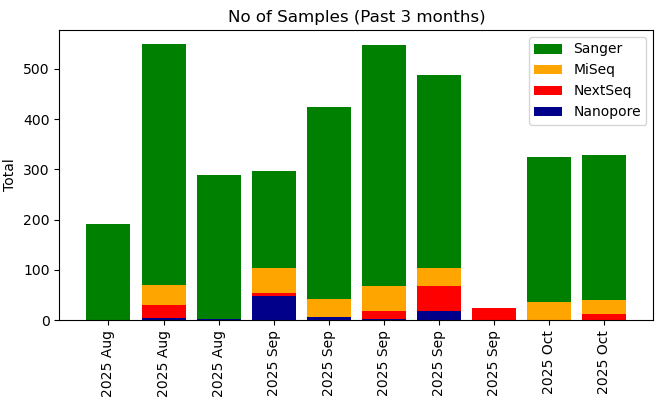
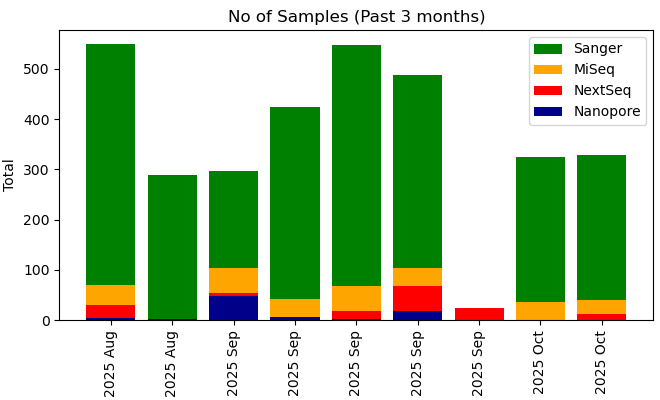
Your commit message here

diff --git a/krona/cgs.html b/krona/cgs.html
@@ -52,8 +52,8 @@ body {
   flex-direction: column;
 }
 </style>
-<H1>Genomics Facility Status: 07:00:12, 08/11/2025</H1>
-<marquee behavior="scroll" scrollamount="20" direction="left" bgcolor="lightgrey">AGAGTTTGATCCTGGCTCAGGATGAACGCTAGCTGCGGGCTTAACACATGCAAGTCGAGGGGCACCACTGTCTTAGCTTGCCAAGTCTGTTTCCGACCGCCGCGCGGCTGAGGAACACGTAACCAGCCTGCCGCCTACTCTTTGCCAGCCGTCTGAAAGTAGGATCAATCGAGGATACGGCCATGACGTCACATGTCCGCTTGCTTGAAGGGATTTTCCGGTAGAGGATGGGGTTGCGTTCCGTCTGATT</marquee>
+<H1>Genomics Facility Status: 07:00:25, 09/11/2025</H1>
+<marquee behavior="scroll" scrollamount="20" direction="left" bgcolor="lightgrey">TGACGCAGAAGCAAACGTGCGTCAAAAATTACGTGCAGAAGGAGTGATGTAATGTCTAAAGGTAAAAAACGTTCTGGCGCTCGCCCTGGTCGTCCGCAGCCGTTGCGAGGTACTAAAGGCAAGCGTAAAGGCGCTCGTCTTTGGTATGTAGGTGGTCAACAATTTTAATTGCAGGGGCTTCGGCCCCTTACTTGAGGATAAATTATGTCTAATATTCAAACTGGCGCCGAGCGTATGCCGCATGACCTTTC</marquee>
 <TABLE BORDER=0><TR><TD><TABLE class="styled-table"><H3>GigaBases Sequenced</H3>
-<TR><TD><b>Platform</b></TD><TD><b>Week</b></TD><TD><b>Month</b></TD><TD><b>Year</b></TD><TD><b>Total</b></TD></TR><TR><TD>Illumina MiSeq</TD><TD>0.0</TD><TD>10.11</TD><TD>315.06</TD><TD>315.06</TD></TR><TR><TD>Illumina NextSeq</TD><TD>0.0</TD><TD>0.88</TD><TD>4751.72</TD><TD>4794.79</TD></TR><TR><TD>Nanopore PromethION</TD><TD>0.0</TD><TD>0.0</TD><TD>5470.43</TD><TD>7890.57</TD></TR><TR><TD>Sanger</TD><TD>0.0</TD><TD>0.0</TD><TD>0.02</TD><TD>0.03</TD></TR></TABLE></TD><TD><IMG SRC="fig1.png"><IMG SRC="fig2.png"></TD></TR><TR><TD><H3>No. Samples (No. Experiments)</H3>
-<TABLE class="styled-table"><TR><TD><b>Platform</b></TD><TD><b>Week</b></TD><TD><b>Month</b></TD><TD><b>Year</b></TD><TD><b>Total</b></TD></TR><TR><TD>Illumina MiSeq</TD><TD>0 (0)</TD><TD>29 (3)</TD><TD>1464 (52)</TD><TD>1464 (52)</TD></TR><TR><TD>Illumina NextSeq</TD><TD>0 (0)</TD><TD>11 (1)</TD><TD>1440 (53)</TD><TD>1461 (54)</TD></TR><TR><TD>Nanopore PromethION</TD><TD>0 (0)</TD><TD>0 (0)</TD><TD>342 (138)</TD><TD>637 (215)</TD></TR><TR><TD>Sanger</TD><TD>0 (0)</TD><TD>192 (192)</TD><TD>20254 (20254)</TD><TD>31943 (31943)</TD></TR></TABLE></TD><TD><IMG SRC="fig4.png"></TD></TR></TABLE></HTML>
+<TR><TD><b>Platform</b></TD><TD><b>Week</b></TD><TD><b>Month</b></TD><TD><b>Year</b></TD><TD><b>Total</b></TD></TR><TR><TD>Illumina MiSeq</TD><TD>0.0</TD><TD>7.47</TD><TD>315.06</TD><TD>315.06</TD></TR><TR><TD>Illumina NextSeq</TD><TD>0.0</TD><TD>0.88</TD><TD>4751.72</TD><TD>4794.79</TD></TR><TR><TD>Nanopore PromethION</TD><TD>0.0</TD><TD>0.0</TD><TD>5470.43</TD><TD>7890.57</TD></TR><TR><TD>Sanger</TD><TD>0.0</TD><TD>0.0</TD><TD>0.02</TD><TD>0.03</TD></TR></TABLE></TD><TD><IMG SRC="fig1.png"><IMG SRC="fig2.png"></TD></TR><TR><TD><H3>No. Samples (No. Experiments)</H3>
+<TABLE class="styled-table"><TR><TD><b>Platform</b></TD><TD><b>Week</b></TD><TD><b>Month</b></TD><TD><b>Year</b></TD><TD><b>Total</b></TD></TR><TR><TD>Illumina MiSeq</TD><TD>0 (0)</TD><TD>23 (2)</TD><TD>1464 (52)</TD><TD>1464 (52)</TD></TR><TR><TD>Illumina NextSeq</TD><TD>0 (0)</TD><TD>11 (1)</TD><TD>1440 (53)</TD><TD>1461 (54)</TD></TR><TR><TD>Nanopore PromethION</TD><TD>0 (0)</TD><TD>0 (0)</TD><TD>342 (138)</TD><TD>637 (215)</TD></TR><TR><TD>Sanger</TD><TD>0 (0)</TD><TD>96 (96)</TD><TD>20158 (20158)</TD><TD>31943 (31943)</TD></TR></TABLE></TD><TD><IMG SRC="fig4.png"></TD></TR></TABLE></HTML>
